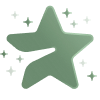
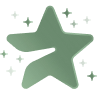
Premium's sage by hue, as on the other clients
Blue, purple and pink are the soft sage, the accent and the deep sage,
as Desktop's Premium buttons, and the lists of the Premium popup step
from deep to soft where Telegram's run from warm to cool and from soft
to deep where they run from cool to warm. The star is rendered again in
the reversed gradient.

diff --git a/ci/patch.py b/ci/patch.py
@@ -7124,10 +7124,12 @@ def verify_palette(sources):
 # owner's decision of 2026-11-21, task 118 of the server).
 #
 # Pluma's Premium gradient, in the order of Telegram's (blue, purple, pink):
-# the dark sage (the blue identity's name, the night wallpaper's), the accent
-# and the soft sage (the blue identity's avatar top). White stays legible on
-# each, as on Telegram's.
-PREMIUM_GRADIENT = ("#4F6E52", "#5B7A5E", "#7FA082")
+# the soft sage (the blue identity's avatar top), the accent and the dark sage
+# (the blue identity's name, the night wallpaper's). The sage follows
+# Telegram's hues as on the other clients: the cool end soft, the warm end
+# deep, so blue, purple and pink are Desktop's premiumButtonBg1 to 3. White
+# stays legible on each, as on Telegram's.
+PREMIUM_GRADIENT = ("#7FA082", "#5B7A5E", "#4F6E52")
 # Telegram's colours of that gradient, as upstream writes them, and Pluma's
 # in their place.
 _PREMIUM_STOPS = {"6b93ff": 0, "6c93ff": 0, "976fff": 1, "e46ace": 2, "df69d1": 2}
@@ -7137,8 +7139,9 @@ _PREMIUM_STOP = re.compile(r"#(" + "|".join(_PREMIUM_STOPS) + r")\b", re.IGNOREC
 def premium_shades(n):
     """n colours evenly spaced along Pluma's Premium gradient (by the
     distance between its colours, so that each step changes as much), from
-    its first stop to its last: Telegram steps its lists of the Premium
-    screens through its hues, Pluma through the shades of its gradient."""
+    its first stop to its last, the soft sage to the deep: Telegram steps its
+    lists of the Premium screens through its hues, Pluma through the shades
+    of its gradient, a cool hue soft and a warm one deep."""
     stops = [tuple(int(c[i:i + 2], 16) for i in (1, 3, 5)) for c in PREMIUM_GRADIENT]
     lengths = [sum((b - a) ** 2 for a, b in zip(s, e)) ** .5 for s, e in zip(stops, stops[1:])]
     out = []
@@ -7196,6 +7199,9 @@ _LIMIT_PIN_STOPS = ('<stop stop-color="#6C93FF"/>\n<stop offset="0.489583" stop-
 # icons (promoSlide.tsx 130, PREMIUM_FEATURES_COLORS), the icons of the
 # stories' features (upgradedStoriesFeature.tsx, iconColor) and the bars of
 # the doubled limits (limitsList.tsx 36, backgroundColor), in their order.
+# The features run from orange to green, so their shades run from the deep
+# sage to the soft; the other two from blue to orange, from the soft to the
+# deep.
 _FEATURE_COLORS = ("#ef6922", "#e95a2c", "#e74e33", "#e3433c", "#db374b", "#cb3e6d", "#bc4395", "#ab4ac4",
                    "#9b4fed", "#8958ff", "#676bff", "#5b79ff", "#4492ff", "#429bd5", "#41a6a5", "#3eb26d",
                    "#3dbd4a")
@@ -7221,7 +7227,7 @@ PREMIUM_EDITS = (
     (LIMIT_PIN, _LIMIT_PIN_STOPS, _premium_line(_LIMIT_PIN_STOPS, comment=None)),
     (PREMIUM_FEATURES, _feature_colors_ts(_FEATURE_COLORS),
      "// pluma: the shades of Pluma's Premium gradient, in place of Telegram's hues\n"
-     + _feature_colors_ts(premium_shades(len(_FEATURE_COLORS)))),
+     + _feature_colors_ts(premium_shades(len(_FEATURE_COLORS))[::-1])),
 )
 # The lists of features inside their objects: (head, key, Telegram's colours).
 PREMIUM_FEATURE_LISTS = (

diff --git a/ci/patch_test.py b/ci/patch_test.py
@@ -349,9 +349,9 @@ class PremiumGradientTest(unittest.TestCase):
                 shades = patch.premium_shades(n)
                 self.assertEqual(len(shades), n)
                 self.assertEqual((shades[0], shades[-1]), (patch.PREMIUM_GRADIENT[0], patch.PREMIUM_GRADIENT[-1]))
-                # From dark to light, every step the same up to rounding.
+                # From light to dark, every step the same up to rounding.
                 light = [sum(int(c[i:i + 2], 16) for i in (1, 3, 5)) for c in shades]
-                steps = [b - a for a, b in zip(light, light[1:])]
+                steps = [a - b for a, b in zip(light, light[1:])]
                 self.assertTrue(all(d > 0 for d in steps), shades)
                 self.assertLessEqual(max(steps) - min(steps), 3, shades)
         self.assertIn(patch.PREMIUM_GRADIENT[1], patch.premium_shades(5))
@@ -1835,10 +1835,10 @@ class UpstreamTest(unittest.TestCase):
         features = tree.read(patch.PREMIUM_FEATURES)
         self.assertIn("export const PREMIUM_FEATURES_COLORS: string[] = [\n  '#4F6E52',\n  '#527155',\n", features)
         self.assertIn("  '#7C9D7F',\n  '#7FA082'\n];\n", features)
-        self.assertIn("    iconColor: '#4F6E52',\n    icon: 'multistories'", features)
-        self.assertIn("    iconColor: '#7FA082',\n    icon: 'limit_link'", features)
-        self.assertIn("    limitType: 'channels',\n    backgroundColor: '#4F6E52'", features)
-        self.assertIn("    premium: 4,\n    backgroundColor: '#7FA082'", features)
+        self.assertIn("    iconColor: '#7FA082',\n    icon: 'multistories'", features)
+        self.assertIn("    iconColor: '#4F6E52',\n    icon: 'limit_link'", features)
+        self.assertIn("    limitType: 'channels',\n    backgroundColor: '#7FA082'", features)
+        self.assertIn("    premium: 4,\n    backgroundColor: '#4F6E52'", features)
         # The star of the popup is Pluma's.
         for rel in ("assets/img/premium-star.png", "assets/img/premium-star@2x.png"):
             self.assertEqual((self.root / "public" / rel).read_bytes(), (patch.BRAND / "web" / rel).read_bytes())
@@ -1856,7 +1856,7 @@ class UpstreamTest(unittest.TestCase):
              "_stars.scss: Telegram's Premium colour '976fff' is still there"),
             ("src/scss/partials/_ckin.scss", "\n", "\n.x { color: #E46ACE; }\n",
              "_ckin.scss: Telegram's Premium colour 'E46ACE' is still there"),
-            (patch.PREMIUM_FEATURES, "    iconColor: '#4F6E52',", "    iconColor: '#527155',",
+            (patch.PREMIUM_FEATURES, "    iconColor: '#7FA082',", "    iconColor: '#7C9D7F',",
              "featuresConfig.ts: the iconColor of const stories"),
         ):
             with self.subTest(error=error):

diff --git a/README.md b/README.md
@@ -42,7 +42,7 @@ The server serves layer 233 alongside 228: clients of either layer work against 
   - A join `CONF_WRITE_CHAIN_INVALID` refuses (another join took the chain's height) reads the last block again and goes again on it, as ADR 0060 §5 has it since 2026-11-13: 10 refusals in a row end the join only when the last block read after each is the one the refused join was built on (the chain stands, so it is no race); while the chain moves, as when every member joins again at once after a restart of the SFU, the join goes on, for 100 attempts at most. Upstream gave up after 5 attempts whatever the chain did.
   - The check fails when upstream adds a reader of either kind of call (`isConference` for a conference's interface, `isE2e` and the worker for the crypto), a way to the join-as list, a way to the RTMP player, a way to start a stream or to record a call, or a reason to rejoin the self-healing has not sorted.
 - **Calls in sage** (the owner's decision of 2026-11-12). The 1:1 call's background takes the three gradients of the palette instead of Telegram's (`#3A4A3C #4F6E52 #2C3A2D #5B7A5E` connecting, `#5B7A5E #6F8F72 #4F6E52 #7FA082` connected, `#8A5A44 #A86B4C #7A4E3B #B97A55` weak signal), and so do the group call's colours (`--gc-*`: buttons, microphone, speaking, waiting and muted states, the avatars' waves) and the call's plate over a chat, by meaning: blue and purple the connecting set, green the connected one, red and orange the weak one. The buttons that end, decline or leave a call stay red and the one that answers it green (the owner's decision of 2026-11-13): Leave of a group call keeps Telegram's `--gc-button-leave-color`, Accept of a 1:1 call Telegram's green `#5CC85E` (upstream read it from the group call's speaking colour, which is sage now), Decline and End the theme's danger colour. The state texts of a call (speaking, waiting, muted by an admin) are sage inside the call's screens only (`.popup-group-call`, `.popup-call` set `--gc-*-text-color` from the root's `--gc-call-*-text-color`, which the participants' lottie icons also read): polls and the markup's diff read the same `--gc-green/blue/red-text-color` and keep Telegram's at the root. The check fails when one of Telegram's call colours is anywhere in the sources (one it shares with something else: in a call's files or the `--gc-*` colours), the two buttons' colours included anywhere but on those buttons (`CALL_BUTTONS`), and when the root's state texts are not Telegram's or are set or the sage ones read outside a call's screen (`CALL_TEXT_SCOPES`).
-- **Premium in sage** (the owner's decision of 2026-11-21). Every user has Premium and its screens stay, in Pluma's Premium gradient instead of Telegram's blue, purple and pink: `#4F6E52 #5B7A5E #7FA082` (`PREMIUM_GRADIENT`, colours of the palette) for `--premium-gradient` and `--premium-color` (the popup's header, the Premium row's icon, the badges that read them), the bars and hints of the limits, the accounts limit's popup and its pin, and the gift's button. The lists of the Premium popup (the features' icons, the stories' features, the doubled limits), which Telegram steps through its hues, step through the shades of that gradient (`premium_shades`). The star at the top of the popup is upstream's in the same gradient ([Branding](#branding)). A live stream's badge in the player is not a Premium screen and keeps Telegram's gradient. The check fails when one of Telegram's Premium colours is anywhere in the sources or in the pin.
+- **Premium in sage** (the owner's decision of 2026-11-21). Every user has Premium and its screens stay, in Pluma's Premium gradient instead of Telegram's blue, purple and pink: `#7FA082 #5B7A5E #4F6E52` (`PREMIUM_GRADIENT`, colours of the palette; a cool hue of Telegram's is a soft sage and a warm one a deep sage, as on the other clients) for `--premium-gradient` and `--premium-color` (the popup's header, the Premium row's icon, the badges that read them), the bars and hints of the limits, the accounts limit's popup and its pin, and the gift's button. The lists of the Premium popup (the features' icons, the stories' features, the doubled limits), which Telegram steps through its hues, step through the shades of that gradient (`premium_shades`). The star at the top of the popup is upstream's in the same gradient ([Branding](#branding)). A live stream's badge in the player is not a Premium screen and keeps Telegram's gradient. The check fails when one of Telegram's Premium colours is anywhere in the sources or in the pin.
 - **Updates of an open tab.** A release of the site reaches a tab that stays open within about an hour, and the operator can make a release mandatory (the owner's decision of 2026-11-13); details in [Updates of an open tab](#updates-of-an-open-tab).
 - **No message about the new version.** Upstream's changelog files for this version name Telegram and link to `t.me`; without them the client posts nothing in the service chat.
 
